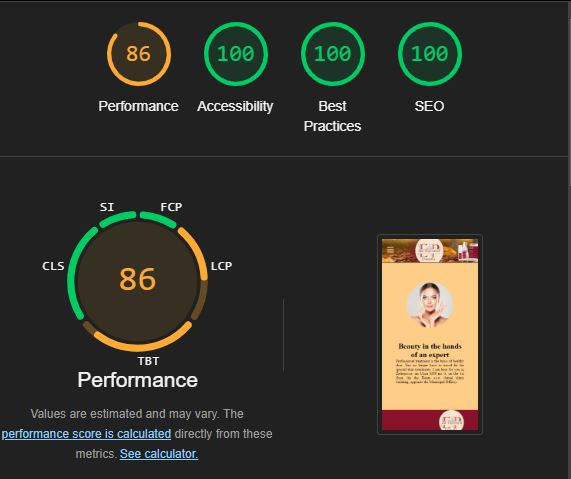
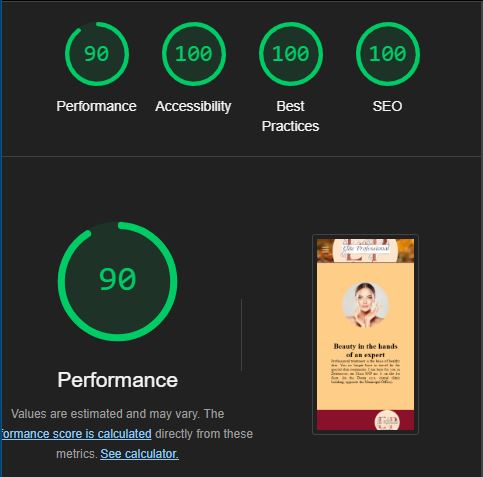
Add testing details

diff --git a/README.md b/README.md
@@ -53,7 +53,7 @@ CONTACT US
 <img src="READ_ME_images/firefox_browser.JPG" alt="firefox" width="150"/>
 and Edge
 <img src="READ_ME_images/EDGE.JPG" alt="firefox" width="150"/>
-
+- While testing in lighthouse i faced low performance because of high resolution images, that takes time for loading pages.
 - I confirmed the the project is responsive, looks good and functions on all standared screens sizes.
 - I confirmed that the navigation, header, about, and contact us are allreadable.
 
